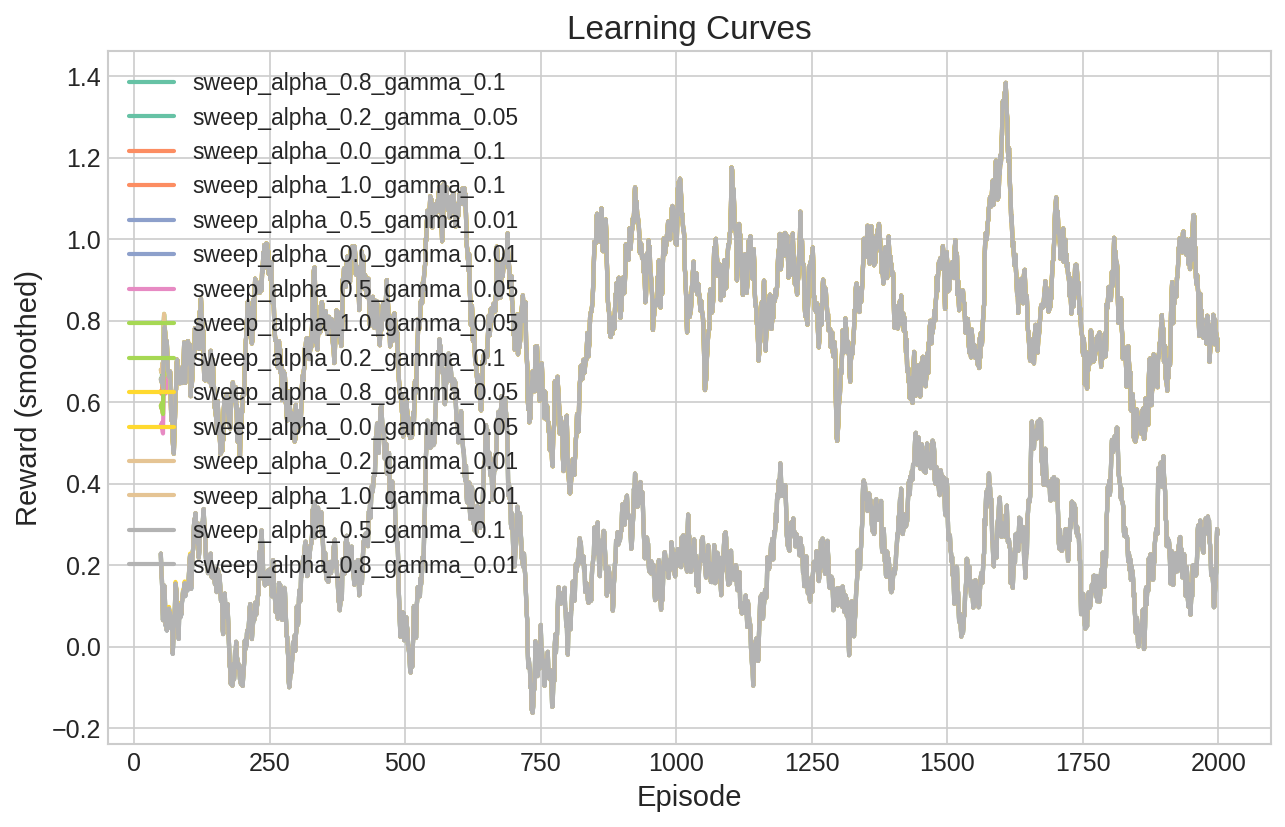
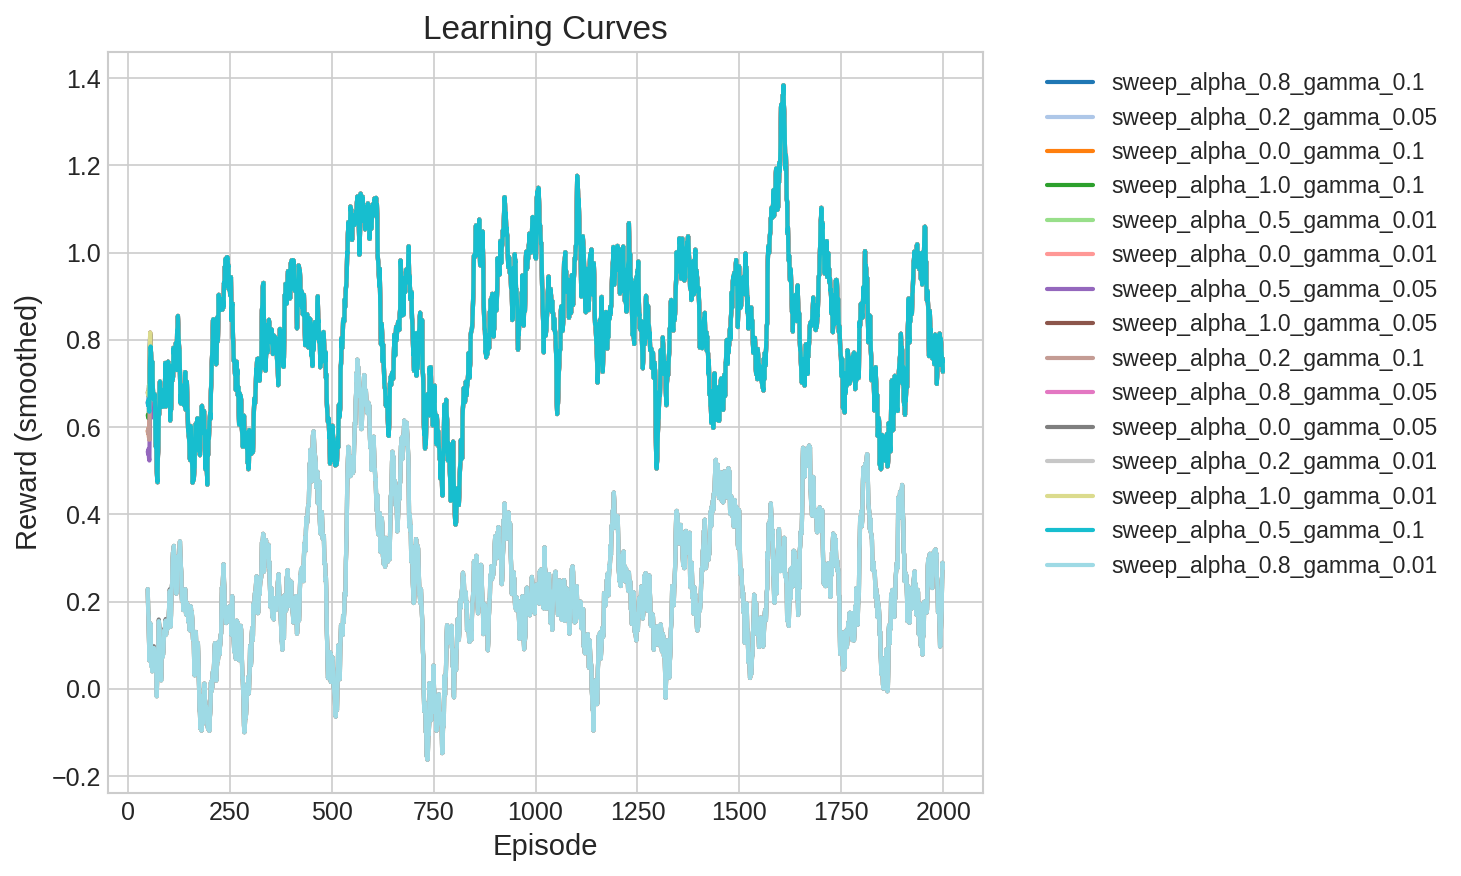
Regenerate parameter sweep plot with better colors and layout

Changed region(s): [[0.0, 0.0, 0.9961, 0.9976]]

diff --git a/src/causalrl/evaluation/plots.py b/src/causalrl/evaluation/plots.py
@@ -57,7 +57,7 @@ def plot_learning_curves(
     set_style()
     fig, ax = plt.subplots()
 
-    colors = plt.cm.Set2(np.linspace(0, 1, len(results)))
+    colors = plt.get_cmap("tab20")(np.linspace(0, 1, len(results)))
 
     for (name, metrics), color in zip(results.items(), colors):
         rewards = metrics.rewards
@@ -73,7 +73,8 @@ def plot_learning_curves(
     ax.set_xlabel("Episode")
     ax.set_ylabel("Reward (smoothed)")
     ax.set_title(title)
-    ax.legend()
+    ax.legend(bbox_to_anchor=(1.05, 1), loc='upper left')
+    fig.tight_layout()
 
     if save_path:
         fig.savefig(save_path, bbox_inches="tight")
@@ -105,7 +106,7 @@ def plot_adaptation(
 
     start = max(0, shift_episode - context_episodes)
     end = shift_episode + context_episodes
-    colors = plt.cm.Set2(np.linspace(0, 1, len(results)))
+    colors = plt.get_cmap("tab20")(np.linspace(0, 1, len(results)))
 
     for (name, metrics), color in zip(results.items(), colors):
         rewards = metrics.rewards[start:end]
@@ -121,7 +122,8 @@ def plot_adaptation(
     ax.set_xlabel("Episode")
     ax.set_ylabel("Reward (smoothed)")
     ax.set_title(title)
-    ax.legend()
+    ax.legend(bbox_to_anchor=(1.05, 1), loc='upper left')
+    fig.tight_layout()
 
     if save_path:
         fig.savefig(save_path, bbox_inches="tight")
